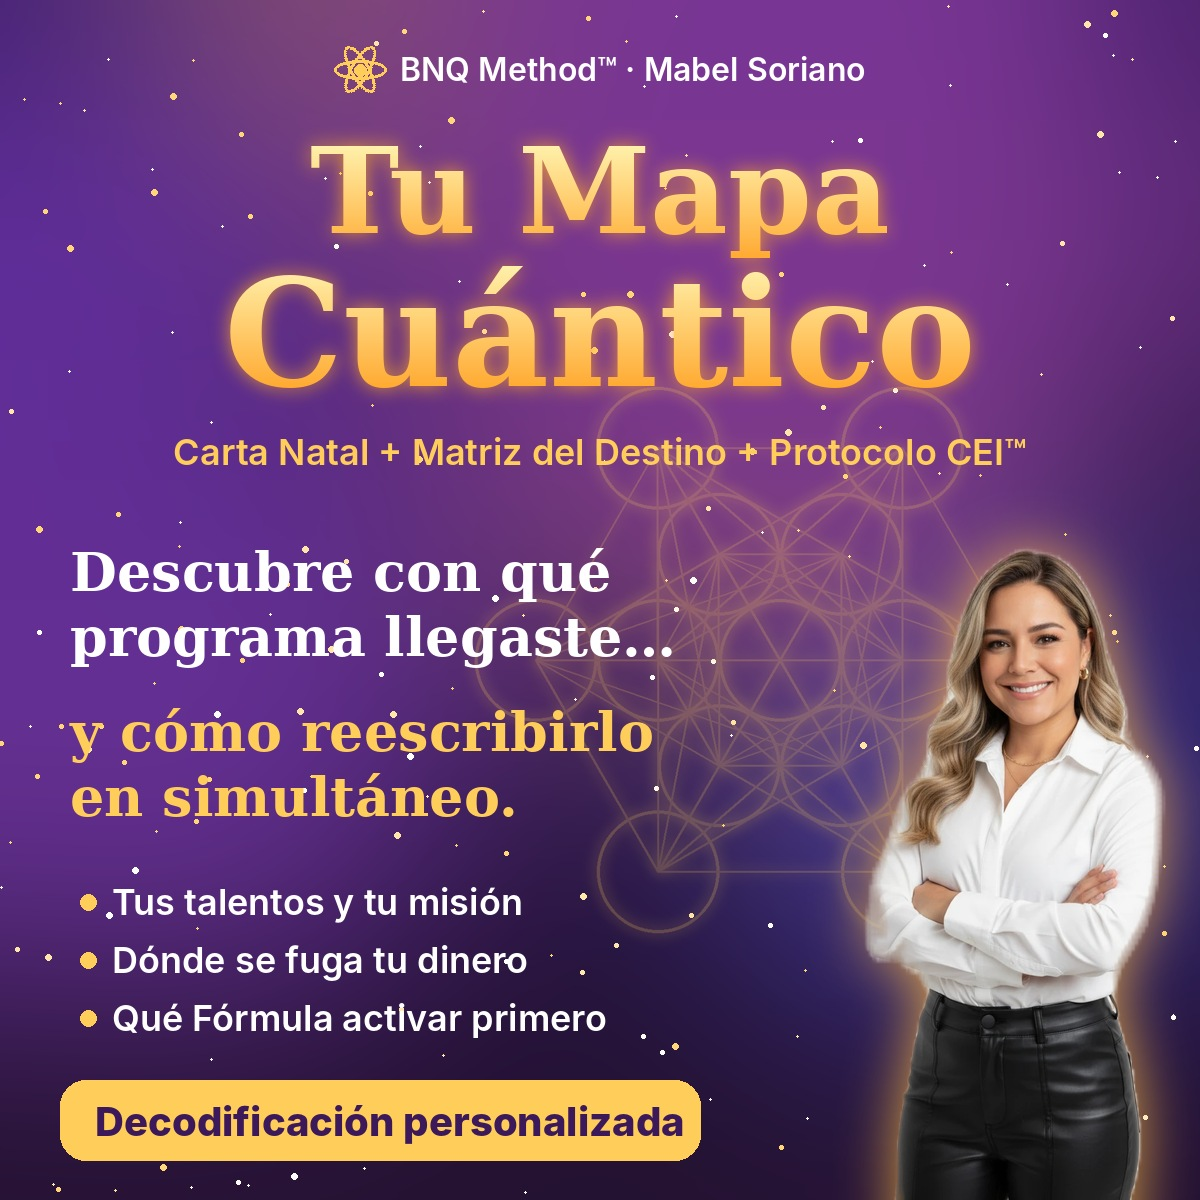
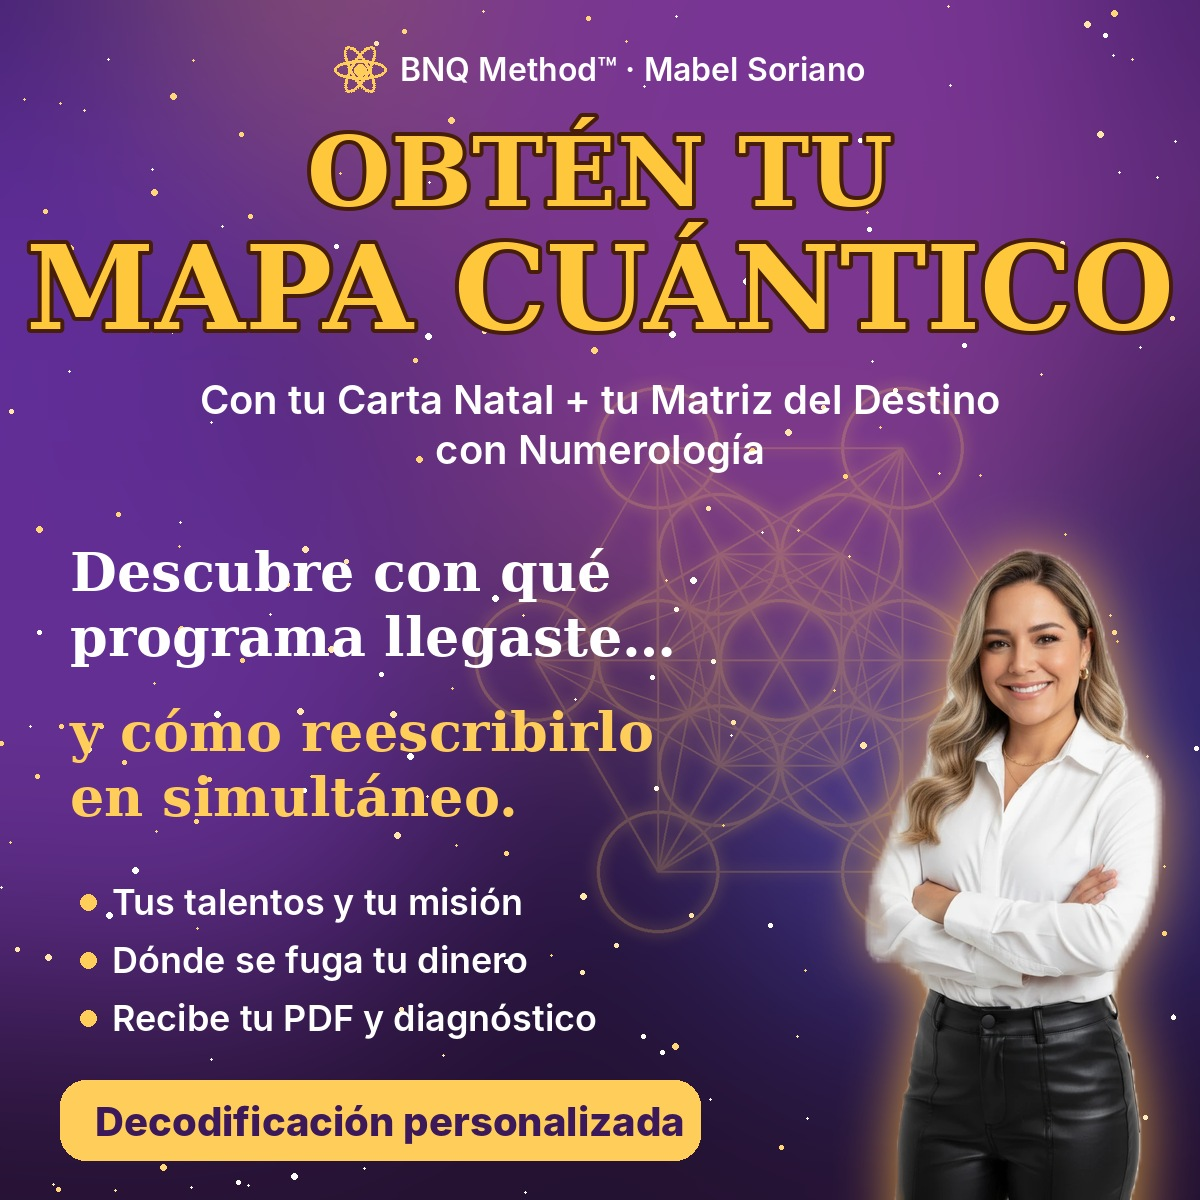
NICA: portada Mapa Cuántico v2 (ajustes de Mabel)

Changed region(s): [[0.0, 0.0925, 0.9867, 0.4008], [0.0925, 0.8325, 0.5242, 0.8633]]

diff --git a/nica-apify/hotmart/portada_mapa_cuantico.py b/nica-apify/hotmart/portada_mapa_cuantico.py
@@ -17,13 +17,18 @@ halo = Image.new("L", bg.size, 0); halo.paste(mk, (x0, y0)); bg.paste((255, 190,
 bg.paste(ft, (x0, y0), mk)
 d = ImageDraw.Draw(bg)
 m.atomo(d, 360, 70, 26); d.text((400, 50), "BNQ Method™ · Mabel Soriano", font=m.F(m.SB, 32), fill=m.BLANCO)
-m.centro_oro(bg, "Tu Mapa", m.F(m.SER, 120), 120); m.centro_oro(bg, "Cuántico", m.F(m.SER, 150), 245)
 d = ImageDraw.Draw(bg)
-m.centro(d, "Carta Natal + Matriz del Destino + Protocolo CEI™", m.F(m.SB, 36), 430, m.ORO)
+def solido(t, f, y):
+    x = (W - d.textlength(t, font=f)) / 2
+    d.text((x, y), t, font=f, fill=(255, 200, 60), stroke_width=4, stroke_fill=(70, 30, 10))
+solido("OBTÉN TU", m.F(m.SER, 96), 115)
+solido("MAPA CUÁNTICO", m.F(m.SER, 116), 220)
+m.centro(d, "Con tu Carta Natal + tu Matriz del Destino", m.F(m.SB, 40), 375, m.BLANCO)
+m.centro(d, "con Numerología", m.F(m.SB, 40), 425, m.BLANCO)
 d.multiline_text((70, 540), "Descubre con qué\nprograma llegaste…", font=m.F(m.SER, 54), fill=m.BLANCO, spacing=14)
 d.multiline_text((70, 700), "y cómo reescribirlo\nen simultáneo.", font=m.F(m.SER, 54), fill=m.ORO, spacing=14)
 y = 880
-for t in ("Tus talentos y tu misión", "Dónde se fuga tu dinero", "Qué Fórmula activar primero"):
+for t in ("Tus talentos y tu misión", "Dónde se fuga tu dinero", "Recibe tu PDF y diagnóstico"):
     d.ellipse((80, y + 14, 96, y + 30), fill=m.ORO); d.text((112, y), t, font=m.F(m.SB, 36), fill=m.BLANCO); y += 58
 m.caja(d, (60, 1080, 700, 1160), gold=True)
 d.text((95, 1097), "Decodificación personalizada", font=m.F(m.B, 40), fill=(60, 25, 90))
